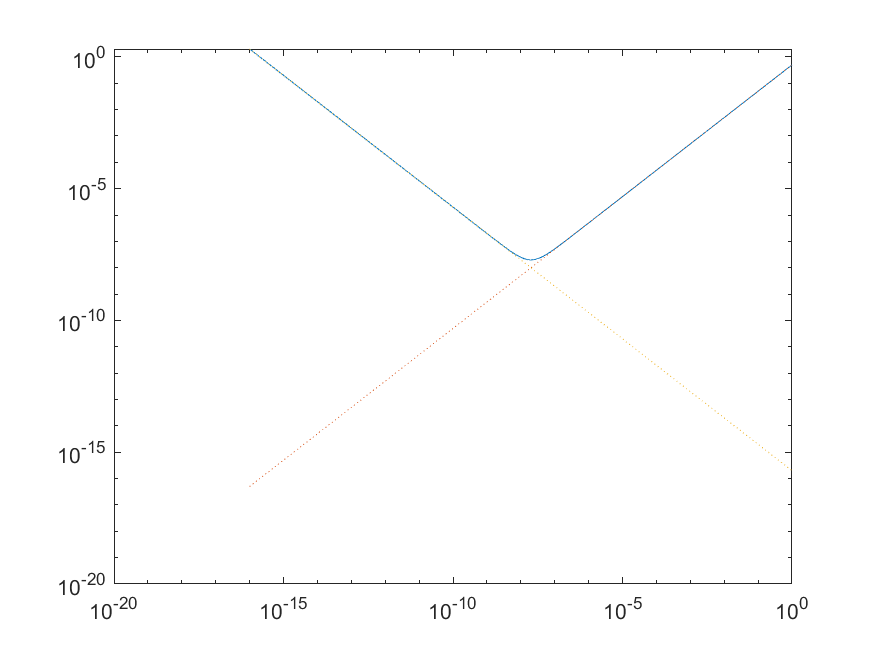
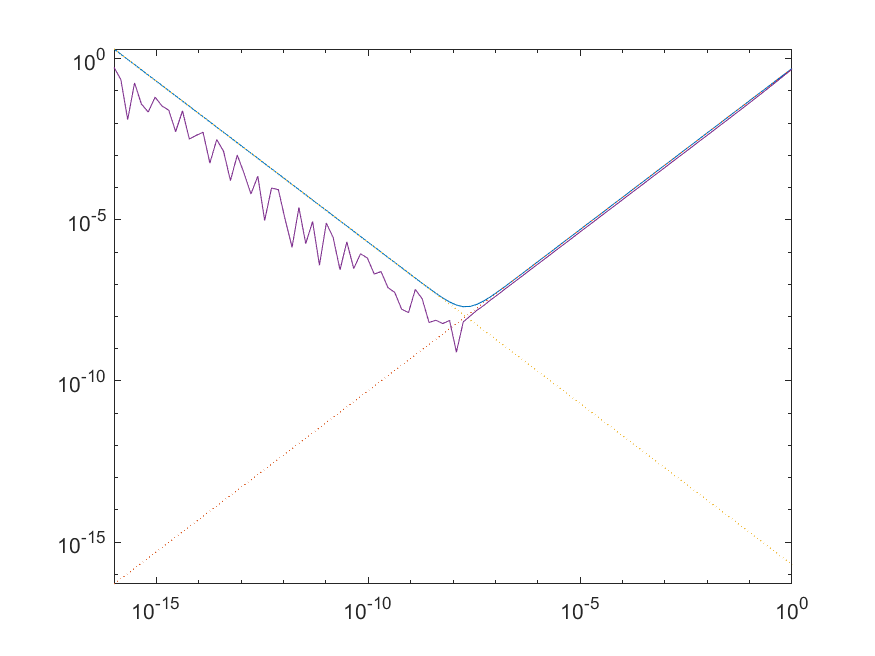
update lab1 result pic

diff --git a/lab1/t1.m b/lab1/t1.m
@@ -4,10 +4,12 @@
 
 M = 1;
 epsilon = 10^(-16);
-x = logspace(-16, 0, 10000);
+x = logspace(-16, 0, 100);
 y = x ./ 2 + (2*epsilon) ./ x;
 z = x ./ 2;
 w = (2*epsilon) ./ x;
-loglog(x, y,'-', x, z,':', x, w,':');
+t = abs((sin(1 + x) - sin(1)) ./ x - cos(1)); 
+loglog(x, y,'-', x, z,':', x, w,':', x, t, '-');
+axis([-inf inf -inf inf])
 
 saveas(gcf,'Barchart.png')
